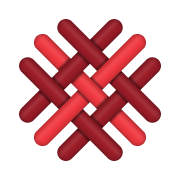
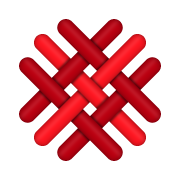
Preserve author red palette and consolidate Qazna implementation roadmap

diff --git a/projects/qazna.org/docs/completion-roadmap.md b/projects/qazna.org/docs/completion-roadmap.md
@@ -1,6 +1,59 @@
 # Completion roadmap and feasibility boundaries
 
-Assessment date: 4 November 2026. Reviewed baseline: `3f4a028` (v0.10.0).
+Latest review: 7 November 2026, source baseline `a60d732` (v0.11.0).
+The current work order below supersedes earlier milestone-specific next steps.
+
+## Current implementation order
+
+Already implemented: exact accounting and physical/payment checks; a 1,825-period
+coupled synthetic model with 16 dimensions and 14 processes; fixed-delivery plan
+trimming; causal reserve-route feedback with delayed commitments; and independent
+checks of idempotency, feasibility and accounting conservation. The latest complete
+local suite passed 38 mathematical and 91 PostgreSQL tests, plus the documented
+HTTP, recovery, safety and actor exercises. GitHub CI for `a60d732` also passed.
+These results cover the declared synthetic model, not national deployment.
+
+The author's current priority is independent calculation and testing before
+external approaches. No partner, investment or paid model call is a prerequisite
+for the following sequence. Items below are **planned**, not newly implemented.
+
+| Order | Work package | Why it is still needed | Completion evidence |
+| --- | --- | --- | --- |
+| 1 — next | One funding envelope and explicit reserves across disruption scenarios | Current cash bounds are retrospective and differ by trace; reserve routes are a heuristic | Declare bounded disruption paths and initial assets; use one opening balance vector across them; check every account prefix, physical balance and same-observation decision prefix; preserve shortages rather than hiding them |
+| 2 | Joint planning of reserves, routes, replacement and training | Coordinate trimming cannot exchange whole blocks of activities; it preserves seed shortages | Compare a coupled/block or solver candidate with the baseline; independently verify exact feasibility, indivisible quantities and terminal reserves; publish an objective bound/gap where available |
+| 3 | Expiry, transport loss, maintenance and changing demand | Current commitments arrive as promised and stocks do not age | Explicit dated lots/loss events; no expired or destroyed output delivered; partial failures, recalls, disrupted routes and revised needs with no rewriting of past provision |
+| 4 | Cohorts, additional services and evidence-backed coefficients | 100 million is a scale factor; health, education and personal choice are not a full national model | Versioned input registry with units, region, year, source and uncertainty; age/cohort transitions, voluntary qualification pathways and service capacity; distinguish synthetic and calibrated runs |
+| 5 | Reviewed integration into the live Rust service | Offline matrices do not currently create persistent runtime plans | Versioned scenario snapshots and drafts; stale-state rejection, atomic application, restart/retry and independent replay; no solver or AI authority to post or issue measure |
+| 6 | Participant-facing demonstrator and operational completion | Machine credentials are not resident identity; disputes, corrections and UI are incomplete | Scoped resident/organization access, evidence custody and dispute resolution, compensating events, accessible role-specific UI, overload and disaster-recovery tests; independent review before any consequential pilot |
+
+### Next calculation block: bounded uncertainty and common opening measure
+
+For a declared finite scenario set Ω and fixed scenario schedules, let
+`C[a,ω,t]` be cumulative net inflow at account a through event t. A common opening
+vector sufficient for all those schedules is:
+
+```text
+E[a] = max(0, max over ω in Ω and event prefixes t of -C[a,ω,t])
+```
+
+This is the componentwise minimum for those fixed schedules with no extra
+rebalancing or later issuance. It is not a global monetary optimum or a guarantee
+for events outside Ω. Verify it against an independent replay and small exhaustive
+cases. Changing routing or payment order changes the schedules and requires new
+bounds. Causal decisions must remain equal while observations are equal; choosing
+an action from a scenario's hidden future is forbidden.
+
+The next deliverable should compare service coverage, opening measure, reserve
+quantities, disposal and recovery delay using the **same** initial funding and
+asset basis. Include simultaneous power/transport/capacity failures and delayed
+recovery, with their explicit bounds. If full provision is physically impossible,
+report the deficit and the governing constraints. A subsequent optimizer may then
+trade among declared service/reserve objectives without changing human rights or
+inventing inputs. Calibration and the runtime safety gates remain necessary.
+
+## Earlier assessment and milestone record
+
+Initial assessment: 4 November 2026. Baseline: `3f4a028` (v0.10.0).
 This is a source/documentation review, not an independent security audit or a new economic validation. The baseline passed 86 PostgreSQL, 3 Rust and 11 Python tests, HTTP restart checks, five strict-evidence cases and two accelerated actor exercises. Those results cover specified synthetic cases only.
 
 ## What completion means
@@ -18,7 +71,11 @@ The present implementation is a research core. It is not yet a complete self-ser
 
 Rust/Tokio/Axum and PostgreSQL/SQLx implement exact accounting, atomic reservations, needs, recipes and capacity, completion and losses, provenance, reviewed drafts, durable coordination and aggregate observation. The operator retains execution authority; model commentary cannot apply actions. Strict evidence mode separates inspector, custodian and recipient credentials and blocks unattested or disputed resources. The book and code now cross-reference each other; the Russian HTML reading edition is public.
 
-## Blocking work and acceptance evidence
+## Initial blocking work and acceptance evidence
+
+This baseline checklist is retained for traceability. The v0.11 and research
+updates below record partial closures; the current work order above governs
+implementation.
 
 | Priority | Work | Current gap | Acceptance evidence |
 | --- | --- | --- | --- |
@@ -46,7 +103,7 @@ P0 means required before assigning the system consequential authority over real 
 - What the accounting unit represents and why a given resource requires a given measure.
 - Who approves norms, changes them, audits that authority and hears appeals.
 - Whether and how basic provision is funded when the resident or treasury lacks measure. Current demo issuance is a fixture, not policy.
-- How measure returns from providers to the treasury, how capacity growth and depreciation are verified, and whether any issuance/redemption is permitted.
+- How measure circulates from providers through the treasury, how capacity growth and depreciation are verified, and whether any issuance/redemption is permitted.
 - How scarce physical resources are prioritized without inventing resources through accounting.
 - Who can stop a participant, unit or system; how essential provision continues during a dispute or outage.
 - What is necessary to know about a person, what must remain private, and how corrections coexist with retained transaction history.

diff --git a/projects/qazna.org/docs/architecture.md b/projects/qazna.org/docs/architecture.md
@@ -54,11 +54,14 @@ The same technology stack does not imply immediate industrial readiness. Economi
 
 ## Next work
 
-1. Establish independent physical evidence and forecast attribution beyond applied, need-linked drafts; evaluate global optimization.
-2. Explicit corrections and reversals, with links to original events and repeat-reversal limits.
-3. Integrate a versioned Python optimizer, queue budgets and evaluation-driven model review.
-4. User roles and resident, operator and auditor interfaces.
-5. Independent production verification, logistics and backup recovery exercises.
+The [current roadmap](completion-roadmap.md#current-implementation-order) governs
+sequencing. First establish one opening funding envelope and explicit reserves
+across bounded disruption scenarios. Then improve joint planning, physical loss
+and expiry, and cohort/input calibration. Connect independently verified candidates
+to versioned Rust reviewable drafts only after these contracts are explicit.
+Resident identity, corrections/disputes, accessible interfaces, operational load
+limits and disaster recovery remain prerequisites for consequential external use.
+The offline experiments do not automatically close these runtime gaps.
 
 ## Norms and proposal selection
 

diff --git a/projects/qazna.org/assets/brand/README.md b/projects/qazna.org/assets/brand/README.md
@@ -7,8 +7,10 @@ Source SHA-256: `2f1d4e8ed83a44294ef1e6244edfce31b0b10ae09a142e0c5c292af4699cffc
 The adaptation was requested by the author on 7 November 2026. The red mark
 represents continuous circulation of provision, not a medical service.
 
-Both diagonal groups have bright red central channels (`#f23840`) and deep red
-outer channels (`#9b1c27`). The two groups flow in opposite directions. Color is
+Both diagonal groups have bright red central channels (`#ff1520`) and deep red
+outer channels (`#bb0010`), with a `#ff000d` base at 30% opacity.
+This palette was adjusted by the author on 7 November 2026 to remove the brown
+cast; its exact source values are preserved. The two groups flow in opposite directions. Color is
 arranged symmetrically across the mark; it is not a literal anatomical diagram.
 The dash period matches the animation displacement, avoiding a jump at the loop
 boundary. The static derivatives preserve this central/outer palette. The logo

diff --git a/projects/qazna.org/CHANGELOG.md b/projects/qazna.org/CHANGELOG.md
@@ -2,6 +2,9 @@
 
 ## Unreleased
 
+- Preserve the author-adjusted red palette (`#ff1520`, `#bb0010`, base `#ff000d`) and regenerate the woven PNG/ICO and static SVG derivatives.
+- Consolidate the current implementation order: common scenario funding/reserves, joint planning, lifecycle losses, calibrated cohorts, reviewed runtime integration and participant safeguards.
+
 - Add causal delayed-output commitments with idempotent retries, overflow atomicity and independent commitment-list tests.
 - Compare fixed and slower reserve transport routes under 30/90-period closures; verify equal decision prefixes before future conditions diverge.
 - Scope the fixed-route shortage certificate explicitly; retain residual physical shortages and retrospective cash-bound limitations.
